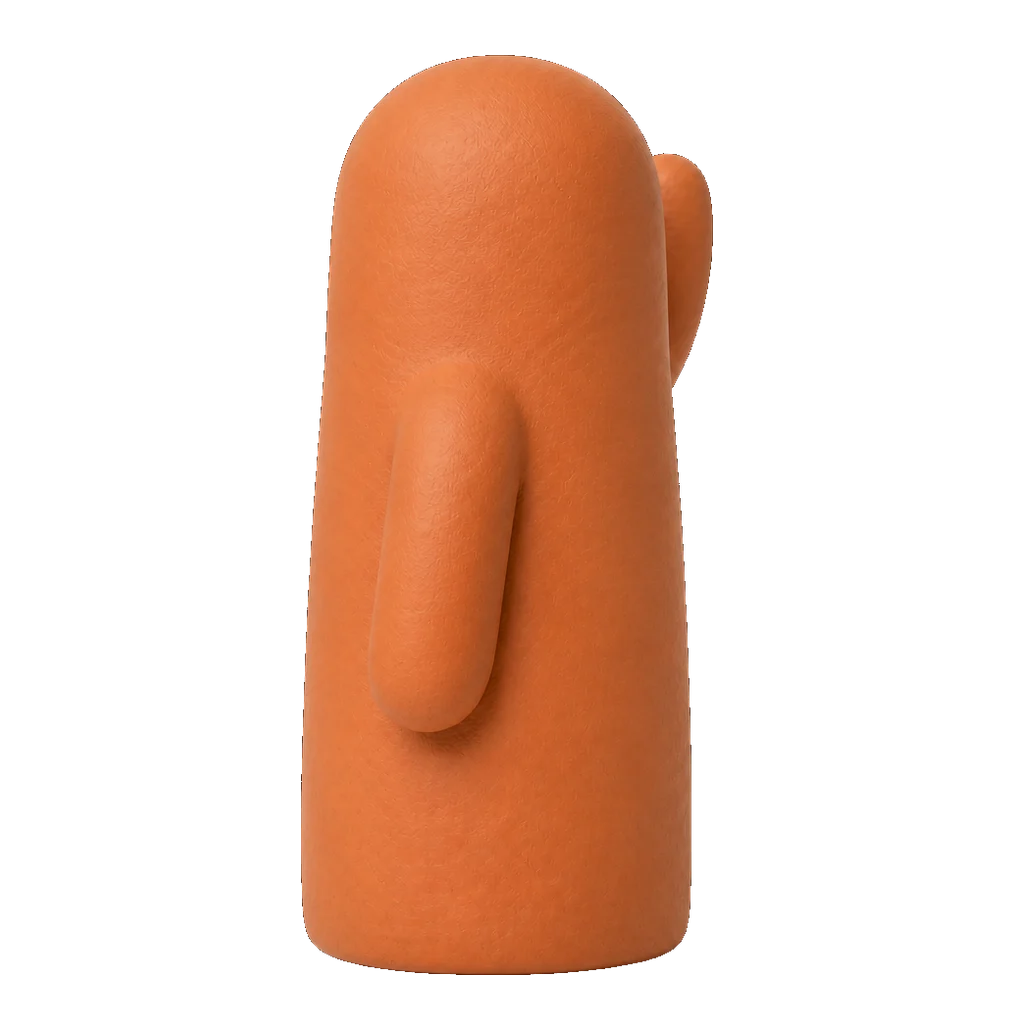
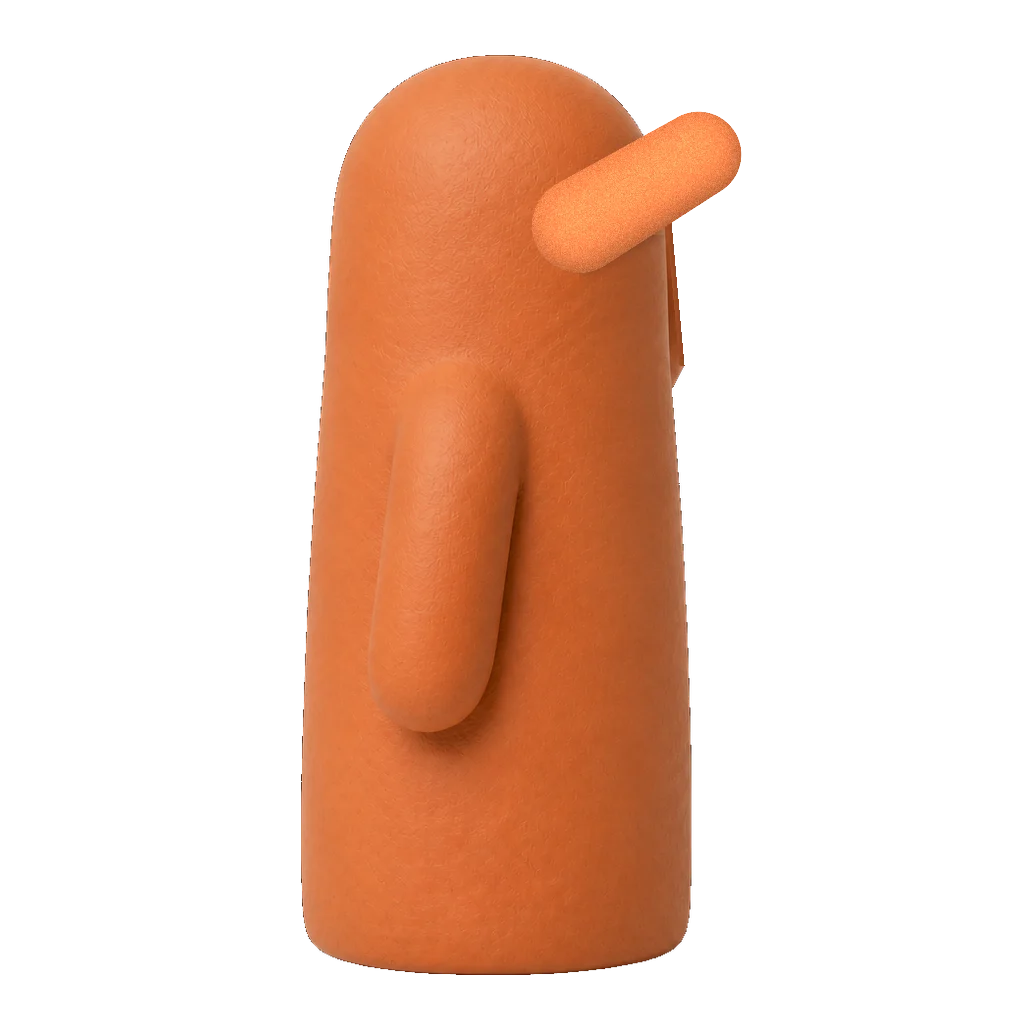
Polish hero spin and left/right art: smoother inertia, default front/back spin, turntable blend via ?spin3d=1.

Changed region(s): [[0.5, 0.0938, 0.75, 0.3438]]

diff --git a/script.js b/script.js
@@ -25,9 +25,9 @@ import {
   const testGateOk = isLocalHost || urlParams.get("key") === "mound";
   const testMode = urlParams.has("test") && testGateOk;
   const secretTestMode = urlParams.get("secret") === "1" && testGateOk;
-  // ヒーロー4面ターンテーブル（正面/右/背/左の画像切替）。ダメなら false か ?spin3d=0
-  // ?spin3d=1 で強制ON / ?spin3d=0 で旧CSS scaleX+表裏にフォールバック
-  const HERO_TURNTABLE = true;
+  // ヒーロー回転は正面/背中の2面（CSS scaleX + is-back）がデフォルト。
+  // 4面ターンテーブルは実験用: ?spin3d=1 でON
+  const HERO_TURNTABLE = false;
   const spin3dParam = urlParams.get("spin3d");
   const useHeroTurntable =
     spin3dParam === "0" ? false : spin3dParam === "1" ? true : HERO_TURNTABLE;
@@ -835,8 +835,9 @@ import {
     let last = performance.now();
     const samples = [];
     const maxSpeed = 1400;
-    const friction = 1.65; // 指数減衰（大きいほど早く止まる）
-    const stopSpeed = 3;
+    // 指数減衰（大きいほど早く止まる）。やや弱めて慣性をなめらかに
+    const friction = 1.28;
+    const stopSpeed = 2.2;
     const dragGain = 0.55; // px → deg
     const flickGain = 1.35; // px/ms → deg/sec 換算用
     // 回せば回すほどことばが増える（速さで頻度アップ、同時は最大6）
@@ -850,15 +851,51 @@ import {
     const superFlash = document.getElementById("hero-super-flash");
     const heroEl = document.querySelector(".hero");
     const defaultFrontBase = "assets/haniwa-front";
-    // yaw 0–360 → 90° セクタ（正回転で front→right→back→left。逆回転は逆順）
+    // yaw 0–360 → 90° セクタ
+    // ドラッグ左（angle+）: front→right→back→left
+    // ドラッグ右（angle−）: front→left→back→right
     // front: 315–45 / right: 45–135 / back: 135–225 / left: 225–315
-    const turntableViewFromAngle = (deg) => {
+    const VIEW_ORDER = ["front", "right", "back", "left"];
+    const VIEW_CENTER = { front: 0, right: 90, back: 180, left: 270 };
+    // 境界クロスフェード半幅（計 ~10°）。高速時も ~12° まで
+    const BLEND_HALF = 5;
+    const BLEND_HALF_FAST = 6;
+    // セクタ内マイクロ rotateY。画像と喧嘩しないよう控えめに
+    const MICRO_MAX = 12;
+    const MICRO_MAX_FAST = 8;
+    const BOUNDARIES = [45, 135, 225, 315];
+    const normalizeDeg = (deg) => {
       let a = deg % 360;
       if (a < 0) a += 360;
+      return a;
+    };
+    const signedDeltaDeg = (from, to) => {
+      let d = to - from;
+      while (d > 180) d -= 360;
+      while (d < -180) d += 360;
+      return d;
+    };
+    const turntableViewFromAngle = (deg) => {
+      const a = normalizeDeg(deg);
       if (a >= 315 || a < 45) return "front";
       if (a < 135) return "right";
       if (a < 225) return "back";
       return "left";
+    };
+    // angle+（右面へ）で rotateY を負に → 手前右縁が手前に来る＝右側面が見える向き
+    const microForView = (view, a, microMax) => {
+      const offset = signedDeltaDeg(VIEW_CENTER[view], a);
+      const clamped = Math.max(-45, Math.min(45, offset));
+      return -(clamped / 45) * microMax;
+    };
+    const smoothstep01 = (t) => {
+      const x = Math.max(0, Math.min(1, t));
+      return x * x * (3 - 2 * x);
+    };
+    // 二重に smoothstep して中間の二重露光を短く（ほぼスナップ寄り）
+    const blendT = (t) => {
+      const s = smoothstep01(t);
+      return smoothstep01(s);
     };
     const turntableBases = [
       "assets/haniwa-front",
@@ -866,6 +903,12 @@ import {
       "assets/haniwa-back",
       "assets/haniwa-left",
     ];
+    const faceEls = {
+      front: haniwa.querySelector(".haniwa-face--front"),
+      right: haniwa.querySelector(".haniwa-face--right"),
+      back: haniwa.querySelector(".haniwa-face--back"),
+      left: haniwa.querySelector(".haniwa-face--left"),
+    };
     if (useHeroTurntable) {
       haniwa.classList.add("is-turntable");
       haniwa.dataset.view = "front";
@@ -887,16 +930,24 @@ import {
     ];
     const superSecretFace = "assets/resident-secret-super";
     let facesPreloaded = false;
+    const preloadImage = (src) => {
+      const pre = new Image();
+      pre.decoding = "async";
+      pre.src = src;
+    };
+    const preloadBases = (bases) => {
+      bases.forEach((base) => {
+        preloadImage(`${base}.webp`);
+        preloadImage(`${base}-512.webp`);
+      });
+    };
+    // 4面は初回スワップのヒッチを避けるため即プリロード
+    if (useHeroTurntable) preloadBases(turntableBases);
     const preloadFaces = () => {
       if (facesPreloaded) return;
       facesPreloaded = true;
-      const bases = useHeroTurntable
-        ? [...altFaces, ...secretFaces, superSecretFace, ...turntableBases]
-        : [...altFaces, ...secretFaces, superSecretFace];
-      bases.forEach((base) => {
-        const pre = new Image();
-        pre.src = `${base}.webp`;
-      });
+      preloadBases([...altFaces, ...secretFaces, superSecretFace]);
+      if (useHeroTurntable) preloadBases(turntableBases);
     };
     const scheduleFacePreload = () => {
       const run = () => preloadFaces();
@@ -931,9 +982,61 @@ import {
 
     const syncTurntableView = () => {
       if (!useHeroTurntable) return;
-      // 顔スワップ中は正面に固定（別顔は front 絵に載る）
-      const view = faceHoldActive ? "front" : turntableViewFromAngle(angle);
+      // 顔スワップ中は正面に固定（別顔は front 絵に載る）／マイクロ回転も止める
+      const opacities = { front: 0, right: 0, back: 0, left: 0 };
+      const micros = { front: 0, right: 0, back: 0, left: 0 };
+      let view = "front";
+
+      if (faceHoldActive) {
+        opacities.front = 1;
+      } else {
+        const a = normalizeDeg(angle);
+        const fast = Math.abs(speed) > 620;
+        const blendHalf = fast ? BLEND_HALF_FAST : BLEND_HALF;
+        const microMax = fast ? MICRO_MAX_FAST : MICRO_MAX;
+        view = turntableViewFromAngle(a);
+
+        let blendBoundary = null;
+        let blendDist = 0;
+        for (let i = 0; i < BOUNDARIES.length; i += 1) {
+          const d = signedDeltaDeg(BOUNDARIES[i], a);
+          if (Math.abs(d) < blendHalf) {
+            blendBoundary = BOUNDARIES[i];
+            blendDist = d;
+            break;
+          }
+        }
+
+        if (blendBoundary === null) {
+          opacities[view] = 1;
+          micros[view] = microForView(view, a, microMax);
+        } else {
+          const before = turntableViewFromAngle(blendBoundary - 0.001);
+          const after = turntableViewFromAngle(blendBoundary + 0.001);
+          const t = blendT((blendDist + blendHalf) / (2 * blendHalf));
+          opacities[before] = 1 - t;
+          opacities[after] = t;
+          micros[before] = microForView(before, a, microMax);
+          micros[after] = microForView(after, a, microMax);
+          // data-view は優勢面（クロスフェード中も安定したラベル）
+          view = t >= 0.5 ? after : before;
+        }
+      }
+
       if (haniwa.dataset.view !== view) haniwa.dataset.view = view;
+
+      for (let i = 0; i < VIEW_ORDER.length; i += 1) {
+        const key = VIEW_ORDER[i];
+        const el = faceEls[key];
+        if (!el) continue;
+        const op = opacities[key];
+        el.style.opacity = op > 0.001 ? op.toFixed(3) : "0";
+        el.style.setProperty("--face-yaw", `${micros[key].toFixed(2)}deg`);
+        const lit = op > 0.02;
+        el.classList.toggle("is-lit", lit);
+        // 優勢面を手前に（クロスフェードの重なり順）
+        el.style.zIndex = lit ? (op >= 0.5 ? "2" : "1") : "";
+      }
     };
 
     const clearFaceSwap = () => {
@@ -1064,8 +1167,9 @@ import {
         haniwa.style.removeProperty("--face-sx");
         haniwa.style.transform = "";
         if (shadow) {
-          const side = haniwa.dataset.view === "right" || haniwa.dataset.view === "left";
-          const width = side ? 0.78 : 1;
+          // 角度に連動して影幅をなめらかに（正面/背面=広・側面=狭）
+          const sideFactor = Math.abs(Math.sin((normalizeDeg(angle) * Math.PI) / 180));
+          const width = 1 - sideFactor * 0.22;
           shadow.style.transform = `translateX(-50%) scaleX(${(0.4 + width * 0.55).toFixed(3)})`;
           shadow.style.opacity = (0.16 + width * 0.1).toFixed(3);
         }
@@ -1097,7 +1201,7 @@ import {
       const b = samples[samples.length - 1];
       const dt = Math.max(1, b.t - a.t); // ms
       const vx = ((b.x - a.x) / dt) * 1000; // px/sec
-      // 横フリック → 縦軸回転。右フリックで手前が左へ回る感覚
+      // 横フリック → 縦軸回転（ドラッグと同じ符号: 右フリックで angle−＝左面へ）
       return (-vx * flickGain) / 2.2;
     };
 

diff --git a/styles.css b/styles.css
@@ -436,16 +436,28 @@ a {
   visibility: visible;
 }
 
-/* 4面ターンテーブル: yaw セクタで画像切替（scaleX 潰しは使わない） */
+/* 4面ターンテーブル: セクタ切替＋境界クロスフェード＋セクタ内マイクロ rotateY
+   perspective() は各面の transform に含める（親の filter/drop-shadow で 3D が潰れないように） */
 .haniwa-3d.is-turntable .haniwa-face {
-  visibility: hidden;
+  visibility: visible;
+  opacity: 0;
+  transform: perspective(1100px) rotateY(var(--face-yaw, 0deg));
+  transform-origin: 50% 55%;
+  backface-visibility: hidden;
+  will-change: opacity, transform;
 }
 
+/* JS 前／フォールバック: data-view の一面だけ表示 */
 .haniwa-3d.is-turntable[data-view="front"] .haniwa-face--front,
 .haniwa-3d.is-turntable[data-view="right"] .haniwa-face--right,
 .haniwa-3d.is-turntable[data-view="back"] .haniwa-face--back,
 .haniwa-3d.is-turntable[data-view="left"] .haniwa-face--left {
-  visibility: visible;
+  opacity: 1;
+}
+
+/* 点灯中の面を前面に（クロスフェードで2枚重なるとき） */
+.haniwa-3d.is-turntable .haniwa-face.is-lit {
+  z-index: 1;
 }
 
 .haniwa-3d.is-fast {
